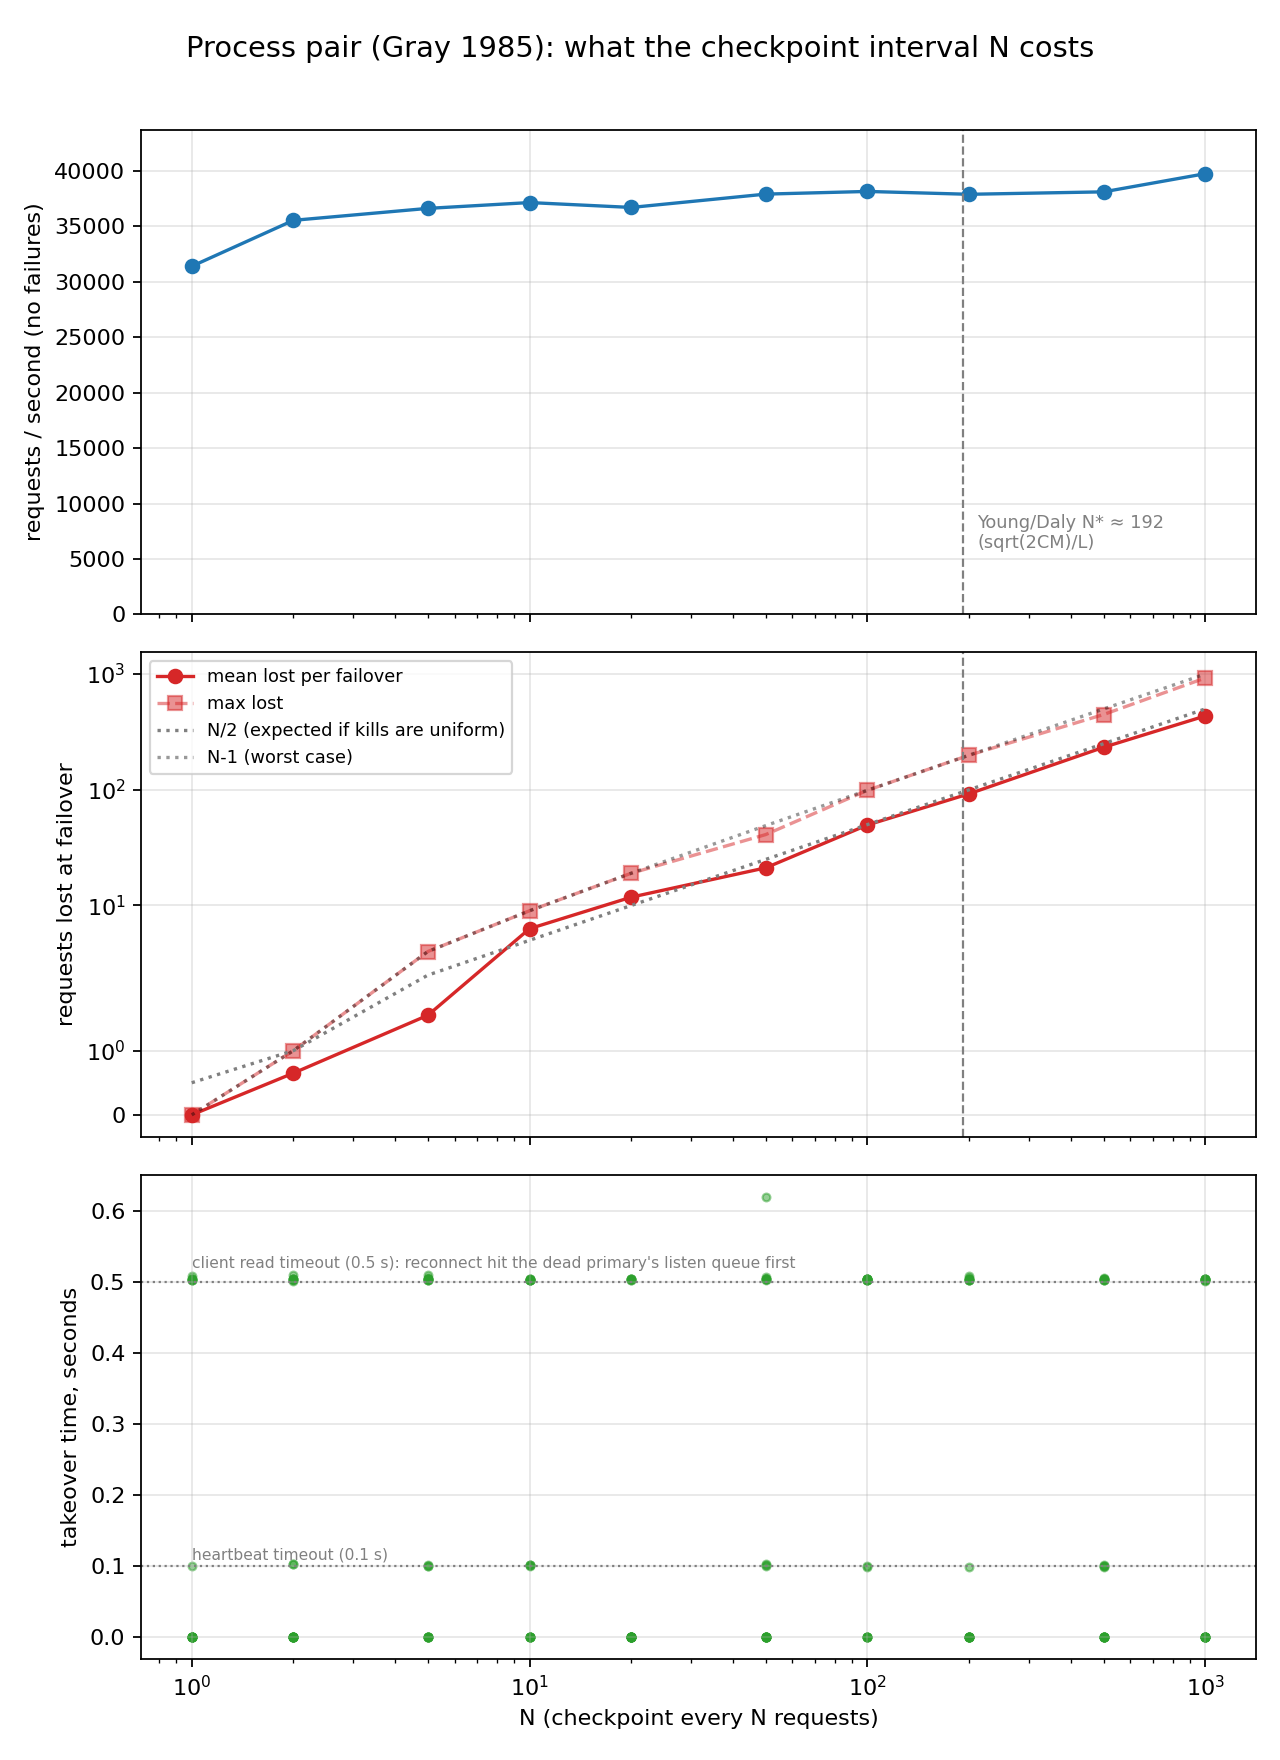
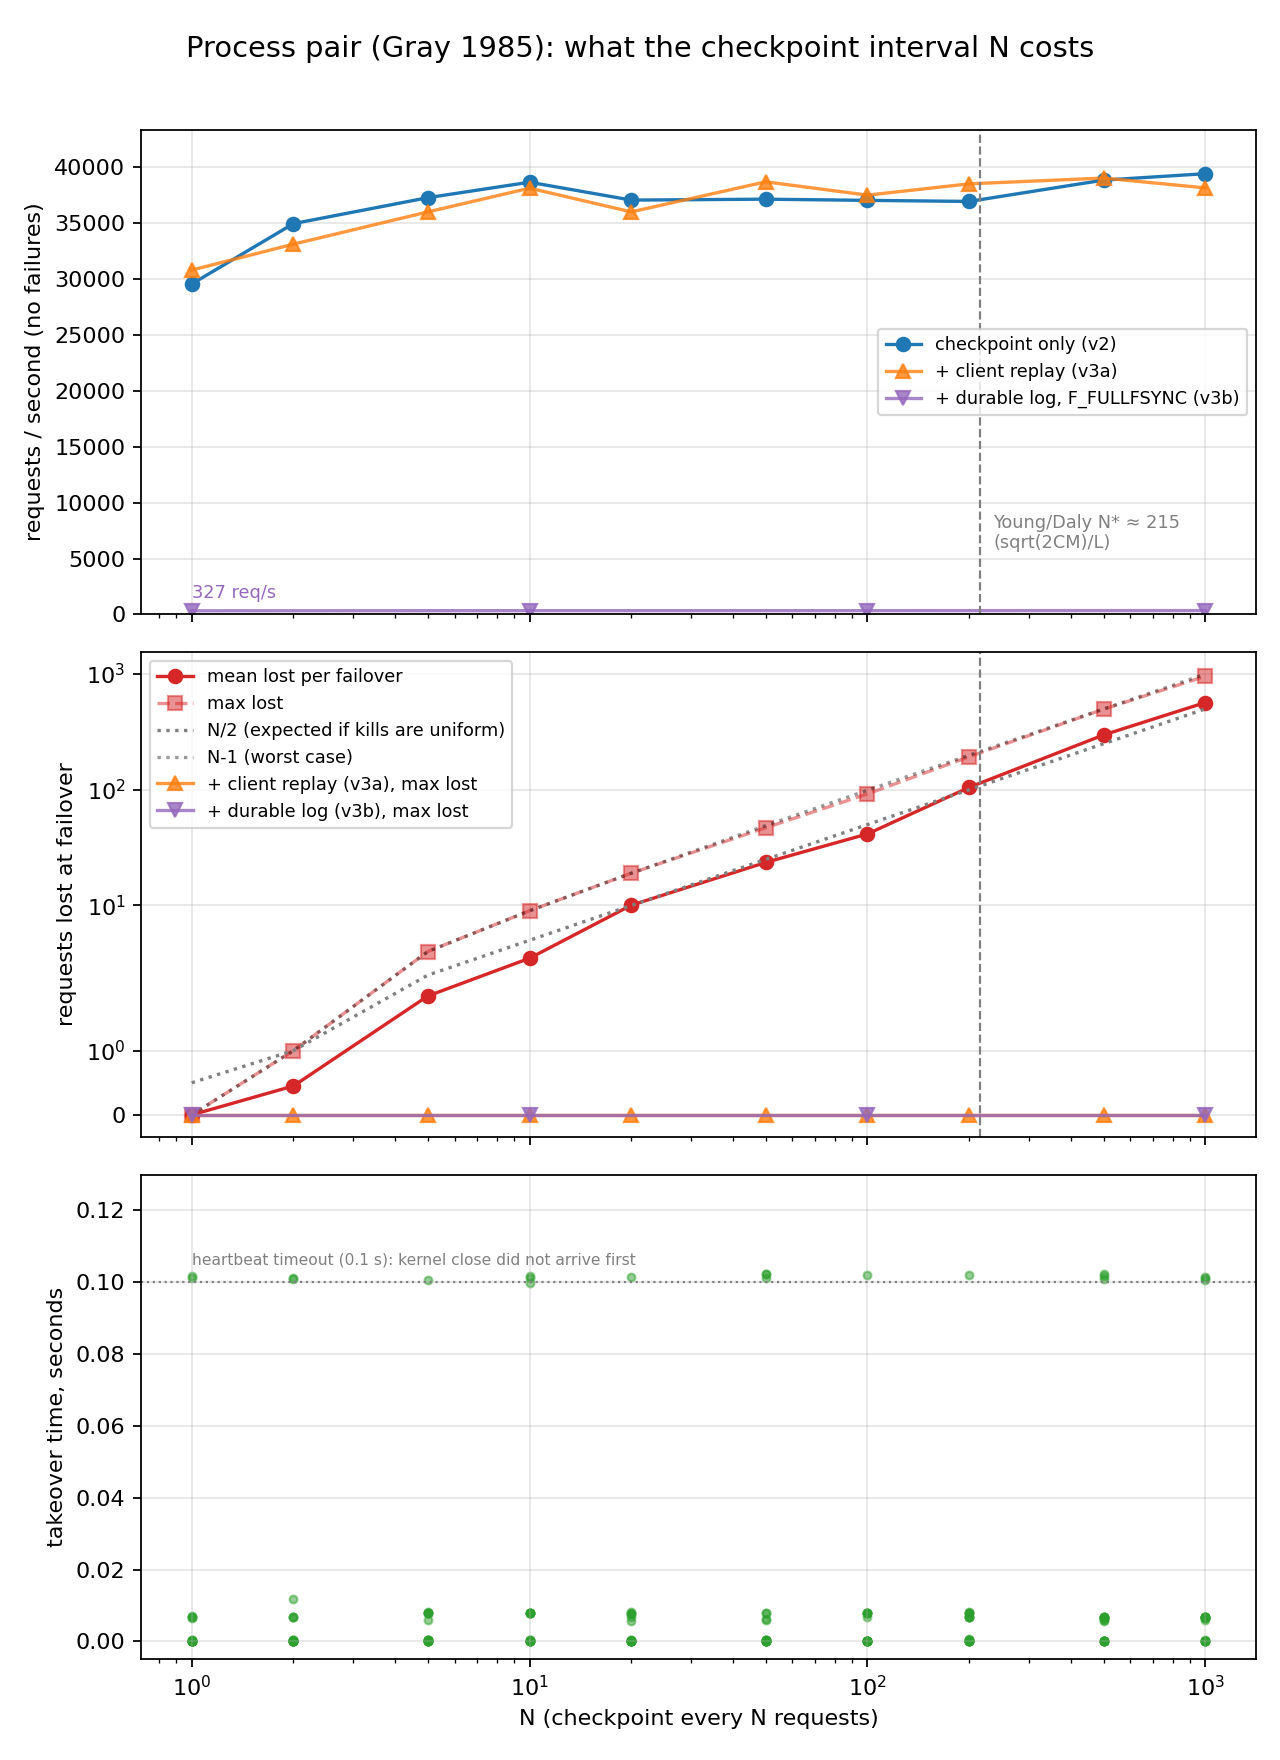
plot: overlay replay and durable series, drop the bogus 0.5s line

diff --git a/plot.py b/plot.py
@@ -3,7 +3,7 @@
 Three panels against N (log scale):
   1. throughput while healthy
   2. requests lost per failover (mean and max), with N/2 and N-1 reference lines
-  3. takeover time as seen by the backup, every trial plotted, so the two modes show
+  3. takeover time as seen by the backup, every trial plotted, so both modes show
 
 Also computes the Young (1974) optimal interval from measured C and M and draws it.
 """
@@ -15,15 +15,24 @@ import matplotlib
 matplotlib.use("Agg")
 import matplotlib.pyplot as plt
 
-healthy = {}
-trials = defaultdict(list)
-with open("results/trials.csv") as f:
-    for row in csv.reader(f):
-        if row[0] == "healthy":
-            healthy[int(row[1])] = int(row[2])
-        elif row[0] == "trial":
-            n, t, lost, take, rps, rc = row[1:]
-            trials[int(n)].append((int(lost), None if take == "None" else float(take), int(rc)))
+import os
+
+def load(path):
+    healthy, trials = {}, defaultdict(list)
+    if not os.path.exists(path):
+        return healthy, trials
+    with open(path) as f:
+        for row in csv.reader(f):
+            if row[0] == "healthy":
+                healthy[int(row[1])] = int(row[2])
+            elif row[0] == "trial":
+                n, t, lost, take, rps, rc = row[1:]
+                trials[int(n)].append((int(lost), None if take == "None" else float(take), int(rc)))
+    return healthy, trials
+
+healthy, trials = load("results/trials.csv")                  # version 2: checkpoint only
+healthy_r, trials_r = load("results/trials_replay.csv")       # version 3a: client replays
+healthy_d, trials_d = load("results/trials_durable.csv")      # version 3b: durable log
 
 Ns = sorted(healthy)
 tp = [healthy[n] for n in Ns]
@@ -44,7 +53,15 @@ fig, axes = plt.subplots(3, 1, figsize=(8, 11), sharex=True)
 fig.suptitle("Process pair (Gray 1985): what the checkpoint interval N costs", fontsize=13)
 
 ax = axes[0]
-ax.plot(Ns, tp, "o-", color="#1f77b4")
+ax.plot(Ns, tp, "o-", color="#1f77b4", label="checkpoint only (v2)")
+if healthy_r:
+    Nr = sorted(healthy_r)
+    ax.plot(Nr, [healthy_r[n] for n in Nr], "^-", color="#ff7f0e", alpha=0.8, label="+ client replay (v3a)")
+if healthy_d:
+    Nd = sorted(healthy_d)
+    ax.plot(Nd, [healthy_d[n] for n in Nd], "v-", color="#9467bd", alpha=0.8, label="+ durable log, F_FULLFSYNC (v3b)")
+    ax.text(Nd[0], healthy_d[Nd[0]] + max(tp) * 0.03, f"{healthy_d[Nd[0]]} req/s", fontsize=8, color="#9467bd")
+ax.legend(fontsize=8, loc="center right")
 ax.set_ylabel("requests / second (no failures)")
 ax.set_ylim(0, max(tp) * 1.1)
 ax.axvline(N_star, color="gray", ls="--", lw=1)
@@ -56,6 +73,10 @@ ax.plot(Ns, mean_lost, "o-", color="#d62728", label="mean lost per failover")
 ax.plot(Ns, max_lost, "s--", color="#d62728", alpha=0.5, label="max lost")
 ax.plot(Ns, [n / 2 for n in Ns], ":", color="gray", label="N/2 (expected if kills are uniform)")
 ax.plot(Ns, [n - 1 for n in Ns], ":", color="black", alpha=0.4, label="N-1 (worst case)")
+for lab, tr, mk, col in (("+ client replay (v3a)", trials_r, "^", "#ff7f0e"), ("+ durable log (v3b)", trials_d, "v", "#9467bd")):
+    if tr:
+        Nx = sorted(tr)
+        ax.plot(Nx, [max(x[0] for x in tr[n]) for n in Nx], mk + "-", color=col, alpha=0.8, label=f"{lab}, max lost")
 ax.set_ylabel("requests lost at failover")
 ax.set_yscale("symlog")
 ax.axvline(N_star, color="gray", ls="--", lw=1)
@@ -69,10 +90,9 @@ for n in Ns:
 ax.set_ylabel("takeover time, seconds")
 ax.set_xlabel("N (checkpoint every N requests)")
 ax.set_xscale("log")
-ax.axhline(0.5, color="gray", ls=":", lw=1)
-ax.text(Ns[0], 0.52, "client read timeout (0.5 s): reconnect hit the dead primary's listen queue first", fontsize=7, color="gray")
 ax.axhline(0.1, color="gray", ls=":", lw=1)
-ax.text(Ns[0], 0.11, "heartbeat timeout (0.1 s)", fontsize=7, color="gray")
+ax.text(Ns[0], 0.105, "heartbeat timeout (0.1 s): kernel close did not arrive first", fontsize=7, color="gray")
+ax.set_ylim(-0.005, 0.13)
 ax.grid(alpha=0.3)
 
 plt.tight_layout(rect=(0, 0, 1, 0.97))
